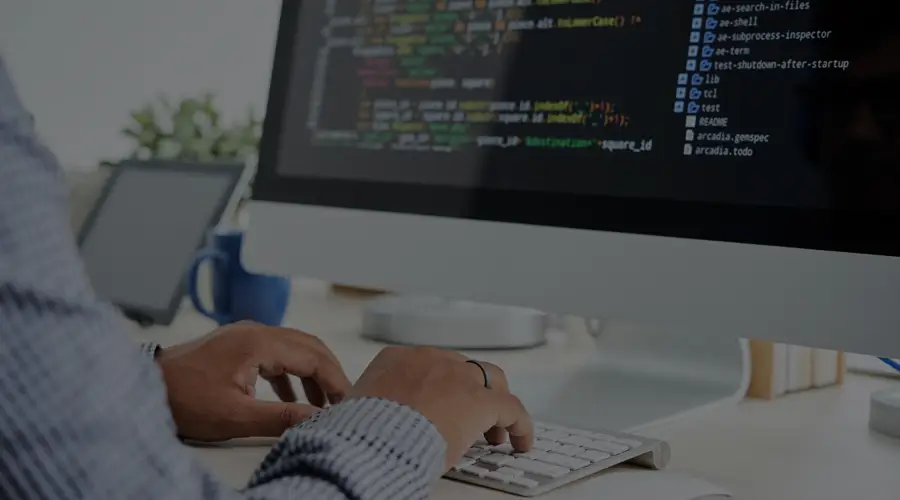
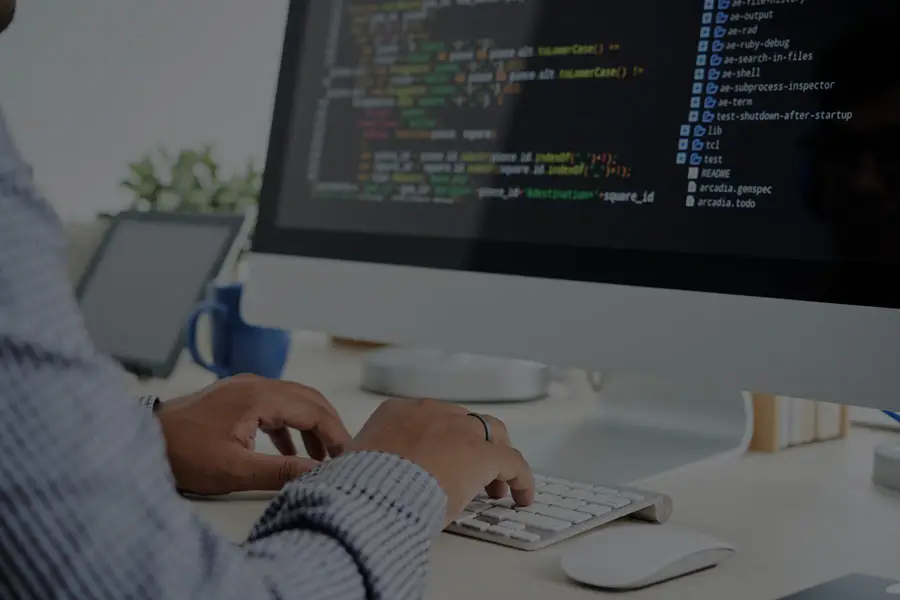
agregando imagenes responsive en home

diff --git a/components/slides/GroupThreeImages.tsx b/components/slides/GroupThreeImages.tsx
@@ -2,17 +2,25 @@ import {FC} from 'react'
 import Image from 'next/image';
 import { Box } from '@mui/material';
 
+import BannerSlideHomeImgxs from '../../public/images/banner-slide-home-img3-xs.webp'
 import BannerSlideHomeImgsm from '../../public/images/banner-slide-home-img3-sm.webp'
+import BannerSlideHomeImgmd from '../../public/images/banner-slide-home-img3-md.webp'
 import BannerSlideHomeImglg from '../../public/images/banner-slide-home-img3-lg.webp'
 import BannerSlideHomeImgxl from '../../public/images/banner-slide-home-img3-xl.webp'
 
 export const GroupThreeImages: FC = () => {
   return (
     <>
-        <Box sx={{display: {xs: 'block', md: 'none'}}}>
+        <Box sx={{display: {xs: 'block', sm: 'none'}}}>
+            <Image src={BannerSlideHomeImgxs} />
+        </Box>
+        <Box sx={{display: {xs: 'none', sm: 'block', md:'none'}}}>
             <Image src={BannerSlideHomeImgsm} />
         </Box>
-        <Box sx={{display: {xs: 'none', md: 'block', xl: 'none'}}}>
+        <Box sx={{display: {xs: 'none', md: 'block', lg:'none'}}}>
+            <Image src={BannerSlideHomeImgmd} />
+        </Box>
+        <Box sx={{display: {xs: 'none', lg: 'block', xl:'none'}}}>
             <Image src={BannerSlideHomeImglg} />
         </Box>
         <Box sx={{display: {xs: 'none', xl: 'block'}}}>

diff --git a/components/slides/GroupTwoImages.tsx b/components/slides/GroupTwoImages.tsx
@@ -2,17 +2,25 @@ import {FC} from 'react'
 import Image from 'next/image';
 import { Box } from '@mui/material';
 
+import BannerSlideHomeImgxs from '../../public/images/banner-slide-home-img2-xs.webp'
 import BannerSlideHomeImgsm from '../../public/images/banner-slide-home-img2-sm.webp'
+import BannerSlideHomeImgmd from '../../public/images/banner-slide-home-img2-md.webp'
 import BannerSlideHomeImglg from '../../public/images/banner-slide-home-img2-lg.webp'
 import BannerSlideHomeImgxl from '../../public/images/banner-slide-home-img2-xl.webp'
 
 export const GroupTwoImages: FC = () => {
   return (
     <>
-        <Box sx={{display: {xs: 'block', md: 'none'}}}>
+        <Box sx={{display: {xs: 'block', sm: 'none'}}}>
+            <Image src={BannerSlideHomeImgxs} />
+        </Box>
+        <Box sx={{display: {xs: 'none', sm: 'block', md:'none'}}}>
             <Image src={BannerSlideHomeImgsm} />
         </Box>
-        <Box sx={{display: {xs: 'none', md: 'block', xl: 'none'}}}>
+        <Box sx={{display: {xs: 'none', md: 'block', lg:'none'}}}>
+            <Image src={BannerSlideHomeImgmd} />
+        </Box>
+        <Box sx={{display: {xs: 'none', lg: 'block', xl:'none'}}}>
             <Image src={BannerSlideHomeImglg} />
         </Box>
         <Box sx={{display: {xs: 'none', xl: 'block'}}}>

diff --git a/components/slides/GroupOneImages.tsx b/components/slides/GroupOneImages.tsx
@@ -2,17 +2,25 @@ import {FC} from 'react'
 import Image from 'next/image';
 import { Box } from '@mui/material';
 
+import BannerSlideHomeImgxs from '../../public/images/banner-slide-home-img1-xs.webp'
 import BannerSlideHomeImgsm from '../../public/images/banner-slide-home-img1-sm.webp'
+import BannerSlideHomeImgmd from '../../public/images/banner-slide-home-img1-md.webp'
 import BannerSlideHomeImglg from '../../public/images/banner-slide-home-img1-lg.webp'
 import BannerSlideHomeImgxl from '../../public/images/banner-slide-home-img1-xl.webp'
 
 export const GroupOneImages: FC = () => {
   return (
     <>
-        <Box sx={{display: {xs: 'block', md: 'none'}}}>
+        <Box sx={{display: {xs: 'block', sm: 'none'}}}>
+            <Image src={BannerSlideHomeImgxs} />
+        </Box>
+        <Box sx={{display: {xs: 'none', sm: 'block', md:'none'}}}>
             <Image src={BannerSlideHomeImgsm} />
         </Box>
-        <Box sx={{display: {xs: 'none', md: 'block', xl:'none'}}}>
+        <Box sx={{display: {xs: 'none', md: 'block', lg:'none'}}}>
+            <Image src={BannerSlideHomeImgmd} />
+        </Box>
+        <Box sx={{display: {xs: 'none', lg: 'block', xl:'none'}}}>
             <Image src={BannerSlideHomeImglg} />
         </Box>
         <Box sx={{display: {xs: 'none', xl: 'block'}}}>
